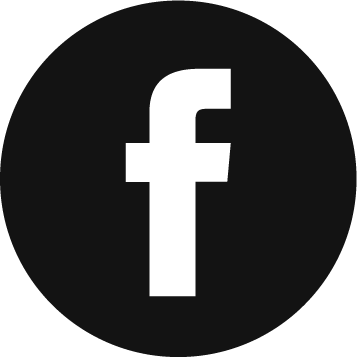
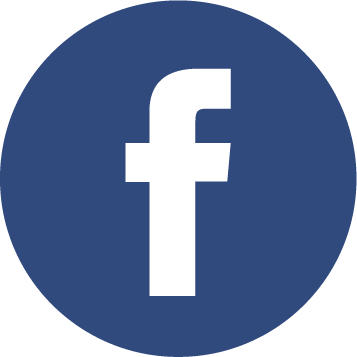
footer created

diff --git a/public/assets/css/style.css b/public/assets/css/style.css
@@ -1,0 +1,48 @@
+/*FOOTER*/
+
+footer {
+    padding-top: 6em;
+    padding-left: 5em;
+    padding-right: 5em;
+    background-image: url("../images/footer/footer.png");
+    background-position: bottom;
+    background-repeat: no-repeat;
+}
+
+footer p {
+    color : white;
+    font-family: monospace, 'Courier New';
+    font-size: 1.5em;
+}
+
+.footer-center img{
+    max-width: 5vw;
+}
+
+footer .row {
+    min-width: 100%;
+}
+
+footer p a {
+    color: goldenrod;
+    transition: ease 0.2s;
+}
+
+footer p a:hover {
+    color: white;
+    text-decoration: none;
+}
+
+.title-footer {
+    color: goldenrod;
+    font-weight: bold;
+}
+
+.footer-center img {
+    filter: grayscale(1);
+    transition: ease 0.2s;
+}
+
+.footer-center img:hover {
+    filter: grayscale(0);
+}
